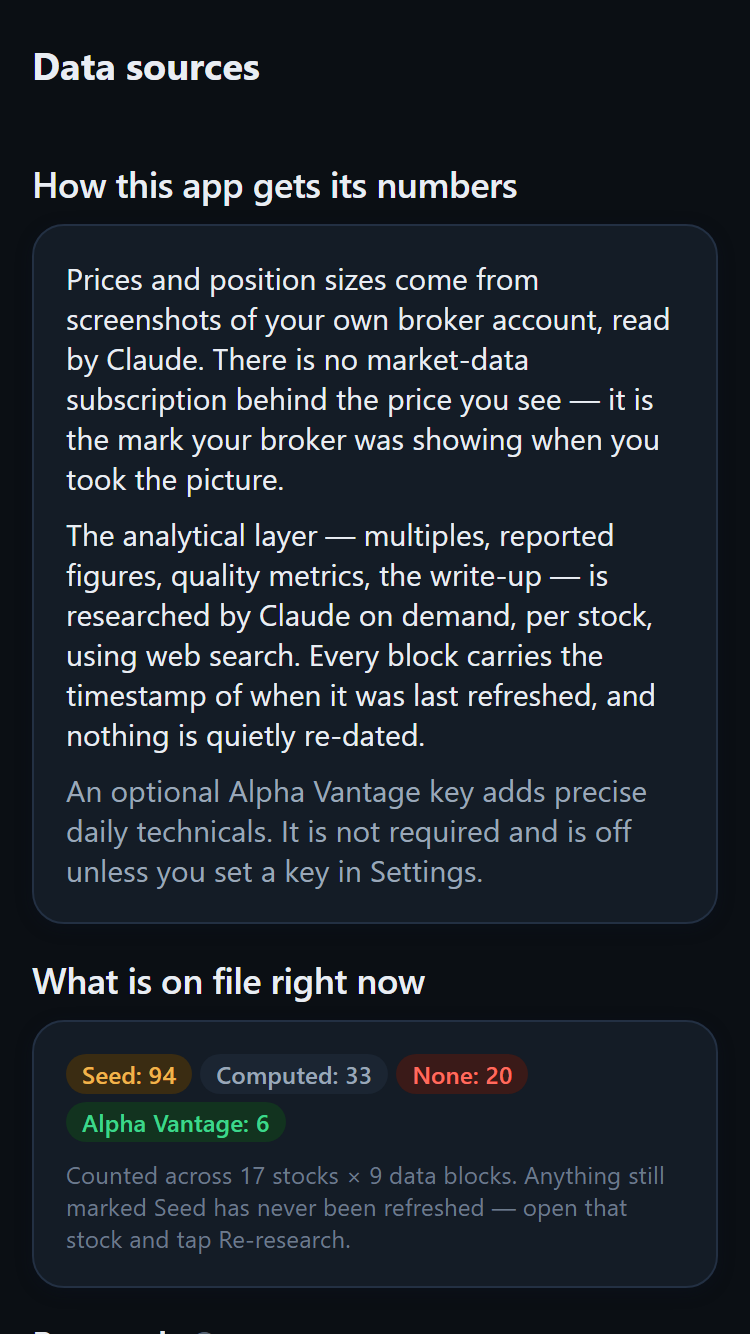
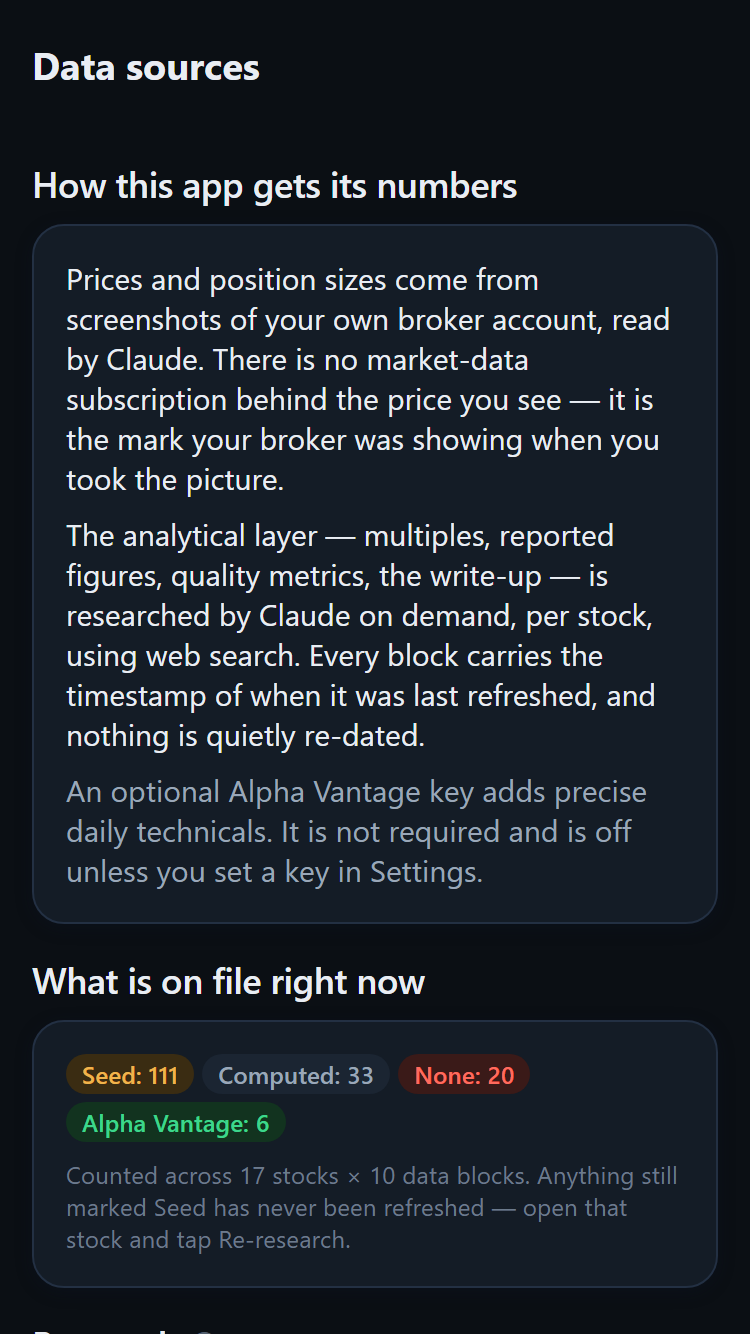
Every stock page opens with what the business actually is
Above the verdict now sits a plain description: what the company makes or
sells, through which channels, and who the end customer is. Deliberately
descriptive where the thesis below it argues — the multiples and margins
further down are the economics of exactly this machine, and the reader
should know which machine.

The research pass fills it (a description found this pass replaces the old
one; a thin search keeps it — a business does not stop being what it is),
the seed carries one for all seventeen names, fact-checked, and stores
written before the field exist get it stamped unavailable rather than
undefined — the persist version steps to 4 for it. The block shows its
provenance on Data sources like everything else.

diff --git a/src/data/seed/stocks.ts b/src/data/seed/stocks.ts
@@ -23,6 +23,8 @@ const SPECS: StockSpec[] = [
   {
     ticker: 'META',
     name: 'Meta Platforms',
+    about:
+      "Meta Platforms operates the Facebook, Instagram, WhatsApp, and Messenger apps and generates most of its revenue by selling advertising space within them. Ads are sold through a self-serve auction system and a direct sales organization to businesses ranging from small merchants to global brands, while the apps themselves are free for users. The company also sells Quest virtual-reality headsets and smart glasses to consumers through its own online store and retail partners.",
     sector: 'tech',
     primaryMultiple: 'forwardPe',
     peerGroup: 'mega-cap platform',
@@ -135,6 +137,8 @@ const SPECS: StockSpec[] = [
   {
     ticker: 'MSFT',
     name: 'Microsoft',
+    about:
+      "Microsoft develops software and cloud services, including the Windows operating system, the Microsoft 365 productivity suite, the Azure cloud platform, LinkedIn, GitHub, and Xbox gaming hardware and content. It sells mainly through subscriptions and enterprise licensing agreements, alongside a direct sales force, reseller and distributor networks, and consumer retail and digital storefronts. End customers span businesses, governments, software developers, and consumers.",
     sector: 'tech',
     primaryMultiple: 'forwardPe',
     peerGroup: 'mega-cap software',
@@ -199,6 +203,8 @@ const SPECS: StockSpec[] = [
   {
     ticker: 'NOW',
     name: 'ServiceNow',
+    about:
+      "ServiceNow develops cloud software for automating enterprise workflows, including IT service management, IT operations, human resources, customer service, and security operations, all built on its Now Platform. The company sells through a direct sales force and channel partners under multi-year subscription contracts. Its customers are large enterprises and government agencies that use the platform to route, track, and automate internal service requests and business processes.",
     sector: 'tech',
     primaryMultiple: 'forwardPe',
     peerGroup: 'enterprise SaaS',
@@ -252,6 +258,8 @@ const SPECS: StockSpec[] = [
   {
     ticker: 'PLTR',
     name: 'Palantir Technologies',
+    about:
+      "Palantir Technologies builds software platforms for integrating and analyzing large, disparate datasets: Gotham for defense and intelligence work, Foundry for commercial operations, and AIP for deploying artificial intelligence models on enterprise data. It sells through a direct sales force, with much of its business under long-term contracts with the U.S. government and allied governments alongside subscriptions to commercial enterprises. End customers include military, intelligence, and civilian government agencies as well as corporations in industries such as manufacturing, energy, and healthcare.",
     sector: 'tech',
     primaryMultiple: 'forwardPe',
     peerGroup: 'high-growth software',
@@ -307,6 +315,8 @@ const SPECS: StockSpec[] = [
   {
     ticker: 'TSSI',
     name: 'TSS Inc.',
+    about:
+      "TSS Inc. provides data center services, including rack-level integration of servers and networking gear for AI and enterprise computing, procurement of third-party hardware and software, and deployment and maintenance of modular data centers. It sells through integration and services contracts, working largely as a partner to a major computer hardware OEM alongside direct engagements. End customers are enterprises, cloud and AI computing operators, and government organizations that buy or operate data center infrastructure.",
     sector: 'tech',
     primaryMultiple: 'ps',
     peerGroup: 'data-centre integrator',
@@ -361,6 +371,8 @@ const SPECS: StockSpec[] = [
   {
     ticker: 'VST',
     name: 'Vistra Corp.',
+    about:
+      "Vistra generates electricity from a fleet of natural gas, nuclear, coal, solar, and battery storage facilities across the United States, and it sells retail electricity and natural gas plans under brands such as TXU Energy, Ambit, and Dynegy. Output not sold at retail is sold into wholesale power markets, including through hedging contracts and capacity auctions. End customers are households, businesses, and municipalities in deregulated electricity markets, with the heaviest concentration in Texas, alongside grid operators that buy its wholesale output.",
     sector: 'power',
     primaryMultiple: 'evEbitda',
     peerGroup: 'merchant power',
@@ -414,6 +426,8 @@ const SPECS: StockSpec[] = [
   {
     ticker: 'CEG',
     name: 'Constellation Energy',
+    about:
+      "Constellation Energy generates electricity from a fleet of nuclear plants along with natural gas, geothermal, hydro, wind, and solar assets in the United States. It sells that power into wholesale markets and through long-term power purchase agreements, and its retail arm supplies electricity and natural gas under fixed and indexed contracts. End customers include commercial and industrial firms, data center operators, government agencies, utilities, and households across competitive energy markets.",
     sector: 'power',
     primaryMultiple: 'evEbitda',
     peerGroup: 'nuclear generation',
@@ -467,6 +481,8 @@ const SPECS: StockSpec[] = [
   {
     ticker: 'FTAI',
     name: 'FTAI Aviation',
+    about:
+      "FTAI Aviation owns and leases commercial jet engines and aircraft, and makes and refurbishes engine modules and replacement parts for widely used narrowbody engine types. It leases equipment directly to airlines and lessors and sells engine modules, used serviceable material, and maintenance services through its own commercial team and repair facilities. End customers are passenger and cargo airlines, aircraft leasing companies, and engine repair shops.",
     sector: 'industrials',
     primaryMultiple: 'evEbitda',
     peerGroup: 'aerospace aftermarket',
@@ -520,6 +536,8 @@ const SPECS: StockSpec[] = [
   {
     ticker: 'BWXT',
     name: 'BWX Technologies',
+    about:
+      "BWX Technologies manufactures nuclear reactor components, precision-machined parts, and nuclear fuel, including the reactors that power US Navy submarines and aircraft carriers. Most of its work is sold through long-term contracts with the US government, chiefly the Navy and the Department of Energy, whose sites it also helps manage and operate. Its commercial segment supplies components, fuel, and services to nuclear utilities, mainly in Canada, and produces medical radioisotopes for healthcare customers.",
     sector: 'industrials',
     primaryMultiple: 'evEbitda',
     peerGroup: 'defense prime',
@@ -573,6 +591,8 @@ const SPECS: StockSpec[] = [
   {
     ticker: 'LMT',
     name: 'Lockheed Martin',
+    about:
+      "Lockheed Martin designs and manufactures military aircraft, missiles and fire-control systems, helicopters, and space systems, including fighter jets, air and missile defense systems, and satellites. It sells almost entirely through long-term government contracts, primarily with the U.S. Department of Defense and other federal agencies, and to allied governments through foreign military sales and direct commercial agreements. End customers are the U.S. armed forces, NASA and other government agencies, and the defense ministries of allied nations.",
     sector: 'industrials',
     primaryMultiple: 'evEbitda',
     peerGroup: 'defense prime',
@@ -626,6 +646,8 @@ const SPECS: StockSpec[] = [
   {
     ticker: 'MCD',
     name: "McDonald's",
+    about:
+      "McDonald's sells hamburgers, chicken sandwiches, fries, breakfast items, and beverages through a global chain of quick-service restaurants. The large majority of locations are operated by franchisees, from whom the company collects rent and royalties, while it runs the remaining restaurants itself. End customers are consumers who order at the counter, in the drive-thru, or through the company's app and third-party delivery platforms.",
     sector: 'consumer',
     primaryMultiple: 'trailingPe',
     peerGroup: 'global QSR',
@@ -682,6 +704,8 @@ const SPECS: StockSpec[] = [
   {
     ticker: 'MELI',
     name: 'MercadoLibre',
+    about:
+      "MercadoLibre operates an online marketplace in Latin America where third-party merchants list and sell goods, alongside the Mercado Pago payments platform, the Mercado Envios logistics network, and consumer and merchant credit. It earns fees from sellers on marketplace transactions, payment processing charges, advertising, shipping services, and interest on loans. End customers are consumers shopping online and merchants selling and collecting payments across the region.",
     sector: 'consumer',
     primaryMultiple: 'forwardPe',
     peerGroup: 'LatAm e-commerce',
@@ -735,6 +759,8 @@ const SPECS: StockSpec[] = [
   {
     ticker: 'SPGI',
     name: 'S&P Global',
+    about:
+      "S&P Global provides credit ratings, financial data and analytics, benchmark indices such as the S&P 500, and commodity price assessments through divisions including Ratings, Market Intelligence, S&P Dow Jones Indices, and Commodity Insights. It earns revenue from fees charged to debt issuers for ratings, subscriptions to its data and research platforms, and licensing of its indices to asset managers and exchanges. Its customers are banks, asset managers, insurers, corporations, and governments.",
     sector: 'financials',
     primaryMultiple: 'forwardPe',
     peerGroup: 'financial data & ratings',
@@ -788,6 +814,8 @@ const SPECS: StockSpec[] = [
   {
     ticker: 'LLY',
     name: 'Eli Lilly',
+    about:
+      "Eli Lilly discovers, manufactures, and sells prescription medicines, with products spanning diabetes and obesity treatments, oncology, immunology, and neuroscience. Its drugs are distributed mainly through pharmaceutical wholesalers that supply pharmacies, hospitals, and clinics, with payment coming largely from private insurers and government health programs. End users are patients who receive the medicines by physician prescription.",
     sector: 'healthcare',
     primaryMultiple: 'forwardPe',
     peerGroup: 'large-cap pharma',
@@ -841,6 +869,8 @@ const SPECS: StockSpec[] = [
   {
     ticker: 'ISRG',
     name: 'Intuitive Surgical',
+    about:
+      "Intuitive Surgical makes robotic-assisted surgery systems, including the da Vinci platform for minimally invasive soft-tissue procedures and the Ion system for lung biopsies, along with the instruments, accessories, and services used with them. It sells through a direct sales force in the United States and most major markets and through distributors elsewhere, placing systems via purchases, leases, and usage-based arrangements that generate recurring instrument and service revenue. Its customers are hospitals, ambulatory surgery centers, and the surgeons who operate the systems.",
     sector: 'healthcare',
     watchlistOnly: true,
     primaryMultiple: 'forwardPe',
@@ -893,6 +923,8 @@ const SPECS: StockSpec[] = [
   {
     ticker: 'AMZN',
     name: 'Amazon.com',
+    about:
+      "Amazon sells consumer goods through its e-commerce sites, both as a direct retailer and by operating a marketplace where independent merchants pay fees for listings, fulfillment, and advertising. Its Amazon Web Services unit sells on-demand computing, storage, and related cloud services under pay-as-you-go pricing and negotiated contracts to companies, startups, and government agencies. The company also collects subscription revenue from Prime memberships and runs physical grocery stores, serving household consumers alongside its merchant, advertiser, and enterprise customers.",
     sector: 'consumer',
     watchlistOnly: true,
     primaryMultiple: 'forwardPe',
@@ -945,6 +977,8 @@ const SPECS: StockSpec[] = [
   {
     ticker: 'SMH',
     name: 'VanEck Semiconductor ETF',
+    about:
+      "SMH is an exchange-traded fund managed by VanEck that tracks the MarketVector US Listed Semiconductor 25 Index, holding the common stocks of the largest US-listed semiconductor companies, spanning chip designers, manufacturers, and equipment makers such as Nvidia, Taiwan Semiconductor, and Broadcom. Its shares trade on the Nasdaq exchange, where investors buy and sell them through brokerage accounts. Buyers are individual and institutional investors seeking broad exposure to the semiconductor industry in a single security.",
     sector: 'tech',
     isEtf: true,
     watchlistOnly: true,

diff --git a/src/data/store.ts b/src/data/store.ts
@@ -193,8 +193,21 @@ export function normalisePersisted<T extends Record<string, unknown>>(persisted:
     alertOnInsiderSelling:
       old.alertOnInsiderSelling ?? old.alertOnOptionsFlip ?? DEFAULT_SETTINGS.alertOnInsiderSelling,
   };
+  // Stocks written before the business-description block exist without
+  // `about`; the detail screen dereferences `about.value`, so the field must
+  // be present, honestly marked unavailable, not undefined.
+  const stocks = (p as { stocks?: Record<string, Stock> }).stocks;
+  const repairedStocks = stocks
+    ? Object.fromEntries(
+        Object.entries(stocks).map(([t, s]) => [
+          t,
+          { ...s, about: s.about ?? { value: null, asOf: null, source: 'unavailable' as const } },
+        ]),
+      )
+    : stocks;
   return {
     ...p,
+    ...(repairedStocks ? { stocks: repairedStocks } : {}),
     settings,
     refresh: p.refresh
       ? { ...p.refresh, status: p.refresh.status === 'running' ? 'idle' : p.refresh.status }
@@ -862,8 +875,8 @@ export const useApp = create<AppState>()(
       // for every toggle. That is how the renamed insider-selling alert
       // silently never fired for upgraded installs, and it would have happened
       // again to alertOnDrift at v2. normalisePersisted is idempotent, so
-      // re-running it on every bump is free.
-      version: 3,
+      // re-running it on every bump is free. v4: stocks gained `about`.
+      version: 4,
       migrate: (persisted: unknown) => normalisePersisted(persisted as Record<string, unknown>),
       // `unlocked` is deliberately not persisted: Face ID must be satisfied
       // again on every cold start.

diff --git a/src/data/provider/claude.ts b/src/data/provider/claude.ts
@@ -319,6 +319,7 @@ export function diffHoldings(
 export interface ResearchResult {
   ticker: string;
   companyName: string;
+  about: string | null;
   primaryMultiple: 'evEbitda' | 'forwardPe' | 'trailingPe' | 'ps';
   primaryMultipleRationale: string;
   peerGroup: string | null;
@@ -452,6 +453,7 @@ const RESEARCH_TOOL: Anthropic.Tool = {
     required: [
       'ticker',
       'companyName',
+      'about',
       'primaryMultiple',
       'primaryMultipleRationale',
       'peerGroup',
@@ -471,6 +473,11 @@ const RESEARCH_TOOL: Anthropic.Tool = {
     properties: {
       ticker: { type: 'string' },
       companyName: { type: 'string' },
+      about: {
+        type: ['string', 'null'],
+        description:
+          'Two or three matter-of-fact sentences on what the business is: what it makes or sells, through which channels (direct sales force, subscriptions, marketplaces, distributors, government contracts…), and who the end customer is. Description, not pitch — no adjectives of praise, no thesis. For an ETF: what the fund holds and who runs it. Null only if you genuinely could not establish it.',
+      },
       primaryMultiple: {
         type: 'string',
         enum: ['evEbitda', 'forwardPe', 'trailingPe', 'ps'],

diff --git a/__tests__/claudeSync.test.ts b/__tests__/claudeSync.test.ts
@@ -124,6 +124,7 @@ describe('merging research', () => {
     return {
       ticker: 'META',
       companyName: 'Meta Platforms',
+      about: null,
       primaryMultiple: 'forwardPe',
       primaryMultipleRationale: '',
       peerGroup: null,
@@ -176,6 +177,18 @@ describe('merging research', () => {
     expect(after.valuation.value!.trailingPe).toBe(before.valuation.value!.trailingPe);
     expect(after.valuation.value!.beta).toBe(before.valuation.value!.beta);
     expect(after.earnings.value!.managementSaid).toBe(before.earnings.value!.managementSaid);
+  });
+
+  it('a description found this pass replaces the old one; silence keeps it', () => {
+    const withAbout = mergeResearch(
+      SEED_STOCKS.META!,
+      research({ about: 'Sells advertising on its social apps.' }),
+      'META',
+    );
+    expect(withAbout.about.value).toBe('Sells advertising on its social apps.');
+    expect(withAbout.about.source).toBe('manual');
+    const kept = mergeResearch(withAbout, research({ about: null }), 'META');
+    expect(kept.about.value).toBe('Sells advertising on its social apps.');
   });
 
   it('keeps the existing series when the model returns no quarters', () => {

diff --git a/src/data/claudeSync.ts b/src/data/claudeSync.ts
@@ -133,6 +133,7 @@ export function blankStock(ticker: string, p: ParsedPosition, sector: SectorId):
     primaryMultiple: 'forwardPe',
     peerGroup: null,
     peerMedianMultiple: null,
+    about: { value: null, asOf: null, source: 'unavailable' },
     quote: quote ? stampClaude(quote) : { value: null, asOf: null, source: 'unavailable' },
     valuation: { value: null, asOf: null, source: 'unavailable' },
     technicals: { value: null, asOf: null, source: 'unavailable' },
@@ -244,6 +245,9 @@ export function mergeResearch(existing: Stock | undefined, r: ResearchResult, ti
     primaryMultiple: r.primaryMultiple ?? base.primaryMultiple,
     peerGroup: keep(r.peerGroup, base.peerGroup),
     peerMedianMultiple: keep(r.peerMedianMultiple, base.peerMedianMultiple),
+    // A description found this pass replaces the old one; silence keeps it —
+    // a business does not stop being what it is because a search came back thin.
+    about: r.about ? stampClaude(r.about) : base.about,
     valuation: stampClaude(valuation),
     quality: r.quality ? stampClaude(mergeQuality(base.quality.value, r.quality)) : base.quality,
     cashFlow: r.cashFlow

diff --git a/src/domain/glossary.ts b/src/domain/glossary.ts
@@ -28,6 +28,12 @@ export const GLOSSARY = {
     read: 'This is the headline number for the account — market value of the holdings plus cash.',
     caveat: 'It uses the marks from your last screenshot, not a live feed, so it is as current as that picture.',
   },
+  aboutBusiness: {
+    title: 'What this business is',
+    what: 'A plain statement of what the company sells, through which channels, and who the end customer is. For an ETF, what the fund holds.',
+    read: 'Ground the rest of the page in it: the multiples, margins and risks below are the economics of exactly this machine, and a number that surprises you should be checked against what the business actually does.',
+    caveat: 'Deliberately carries no view — the verdict below argues, this does not. It updates when the name is re-researched, so a business mid-pivot shows its previous shape until the next pass.',
+  },
   dayPnl: {
     title: 'Day P&L',
     what: 'How much the book has gained or lost today, in dollars and as a percentage of yesterday\'s close.',

diff --git a/src/data/seed/builder.ts b/src/data/seed/builder.ts
@@ -53,6 +53,8 @@ export interface StockSpec {
   primaryMultiple: PrimaryMultiple;
   peerGroup: string | null;
   peerMedianMultiple: number | null;
+  /** What the business is — product, channels, end customer. Factual prose. */
+  about?: string;
   /** [price, previousClose, volume] */
   quote: [number, number, number | null];
   tradingDay: string;
@@ -126,6 +128,9 @@ export function buildStock(spec: StockSpec, seedAsOf: string): Stock {
     primaryMultiple: spec.primaryMultiple,
     peerGroup: spec.peerGroup,
     peerMedianMultiple: spec.peerMedianMultiple,
+    about: spec.about
+      ? stamped(spec.about, seedAsOf, 'seed')
+      : stamped<string>(null, null, 'unavailable'),
     quote: stamped(quote, asOfFor('quote'), pick('quote')),
     valuation: stamped(spec.valuation, asOfFor('valuation'), pick('valuation')),
     technicals: stamped(spec.technicals, asOfFor('technicals'), pick('technicals')),

diff --git a/app/stock/[ticker].tsx b/app/stock/[ticker].tsx
@@ -164,6 +164,18 @@ export default function StockDetailScreen() {
         </Card>
       ) : null}
 
+      {/* ---------------------------------------------------- the business */}
+      {stock.about.value ? (
+        <Card style={{ gap: spacing.xs }}>
+          <View style={{ flexDirection: 'row', alignItems: 'center', gap: spacing.xs }}>
+            <Label variant="label" muted term="aboutBusiness">
+              What this business is
+            </Label>
+          </View>
+          <Text variant="body">{stock.about.value}</Text>
+        </Card>
+      ) : null}
+
       {/* --------------------------------------------------------- verdict */}
       <Card style={{ gap: spacing.sm }}>
         <View style={{ flexDirection: 'row', alignItems: 'center', gap: spacing.sm }}>

diff --git a/src/domain/types.ts b/src/domain/types.ts
@@ -326,6 +326,12 @@ export interface Stock {
   peerGroup: string | null;
   /** Median of `primaryMultiple` across the peer group, when known. */
   peerMedianMultiple: number | null;
+  /**
+   * What the business actually is: what it sells, through which channels, and
+   * to whom. Deliberately descriptive — the thesis below it argues; this
+   * doesn't. For an ETF, what the fund holds.
+   */
+  about: Stamped<string>;
 
   quote: Stamped<Quote>;
   valuation: Stamped<ValuationSnapshot>;

diff --git a/app/sources.tsx b/app/sources.tsx
@@ -7,6 +7,7 @@ import { relativeAsOf } from '@/domain/format';
 import type { DataSourceId, Stock } from '@/domain/types';
 
 const BLOCKS = [
+  ['about', 'Business description'],
   ['quote', 'Price'],
   ['valuation', 'Valuation'],
   ['technicals', 'Technicals'],
